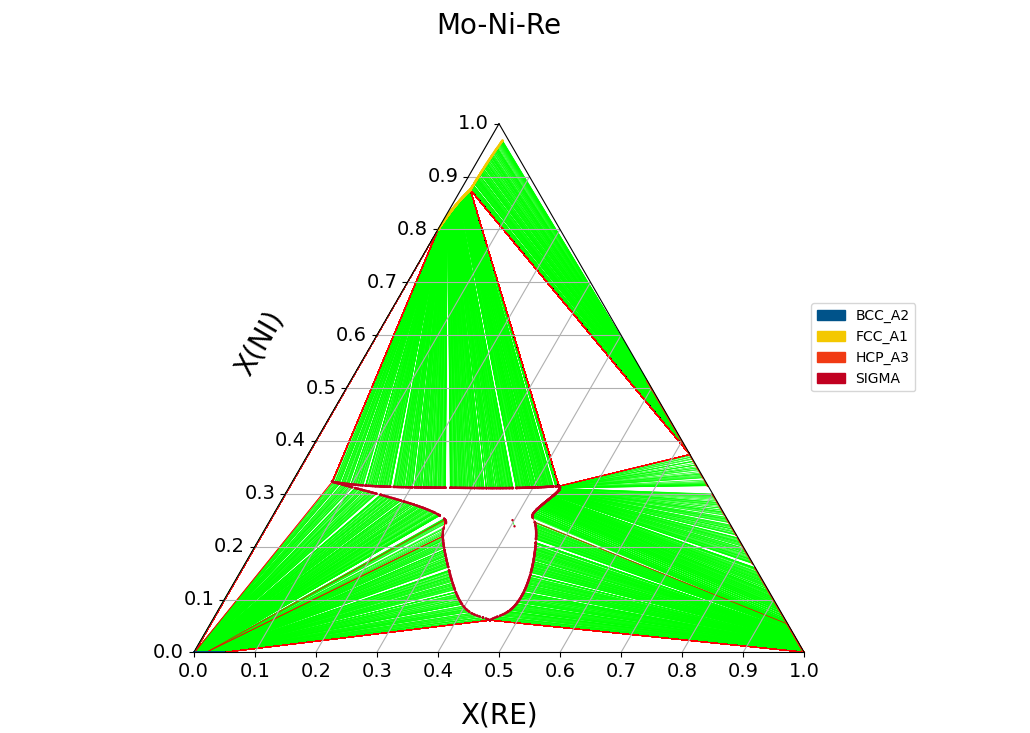
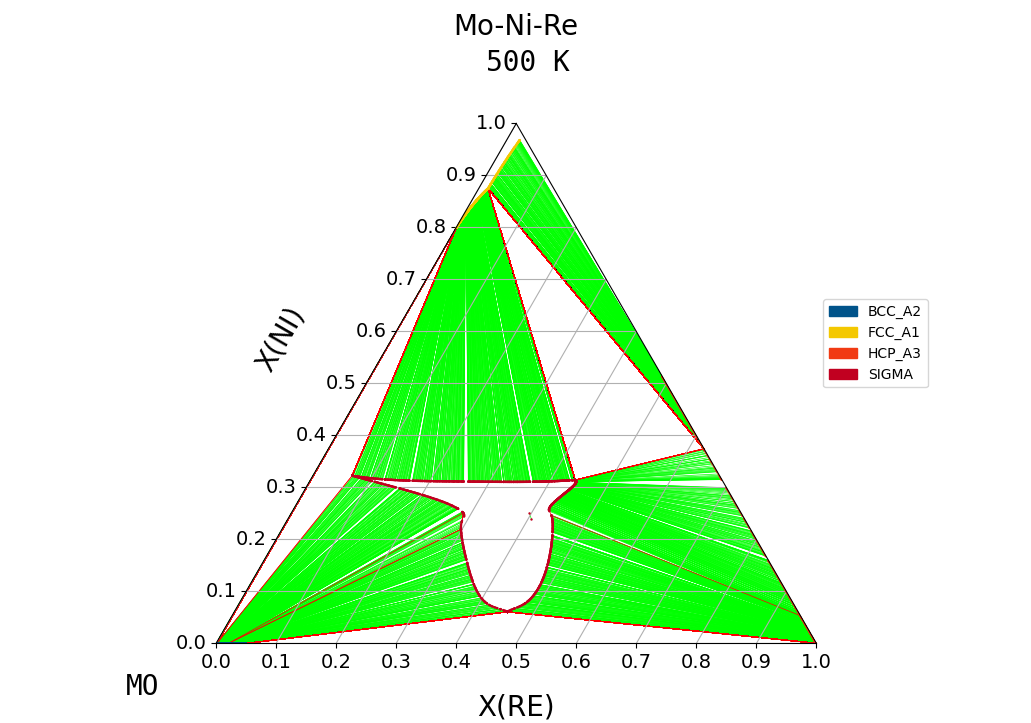
WSL2(ubuntu 22.04 LTS) on win11

diff --git a/Mo-Ni-Re/ternary-MoNiRe.py b/Mo-Ni-Re/ternary-MoNiRe.py
@@ -1,0 +1,29 @@
+#%matplotlib inline # for Jupyter notebooks
+import matplotlib.pyplot as plt
+from pycalphad import Database, ternplot
+from pycalphad import variables as v
+
+#------User input area--------
+tdb_file = 'mmc1.TDB' # from TDBDB (https://avdwgroup.engin.brown.edu/)
+ELA = 'Re' # x-axis
+ELB = 'Mo' # lower left side
+ELC = 'Ni' # y-axis
+Temp = 500 # [K]
+#------User input area--------
+# It is preferable to specify elements in "ELA, ELB and ELC" in alphabetical order.
+
+ELA = ELA.upper ()
+ELB = ELB.upper ()
+ELC = ELC.upper ()
+
+tdb = Database(tdb_file)
+comps = [ELA, ELB, ELC, 'VA']
+phases = list(tdb.phases.keys())
+conds = {v.T: Temp, v.P:101325, v.X(ELA): (0,1,0.015), v.X(ELC): (0,1,0.015)}
+
+ternplot(tdb, comps, phases, conds, x=v.X(ELA), y=v.X(ELC))
+
+plt.text(-0.1, -0.1, ELB, family='monospace', fontsize=20)
+plt.text(-0.1, 1.1, str(Temp)+' K', family='monospace', fontsize=20)
+
+plt.show()
